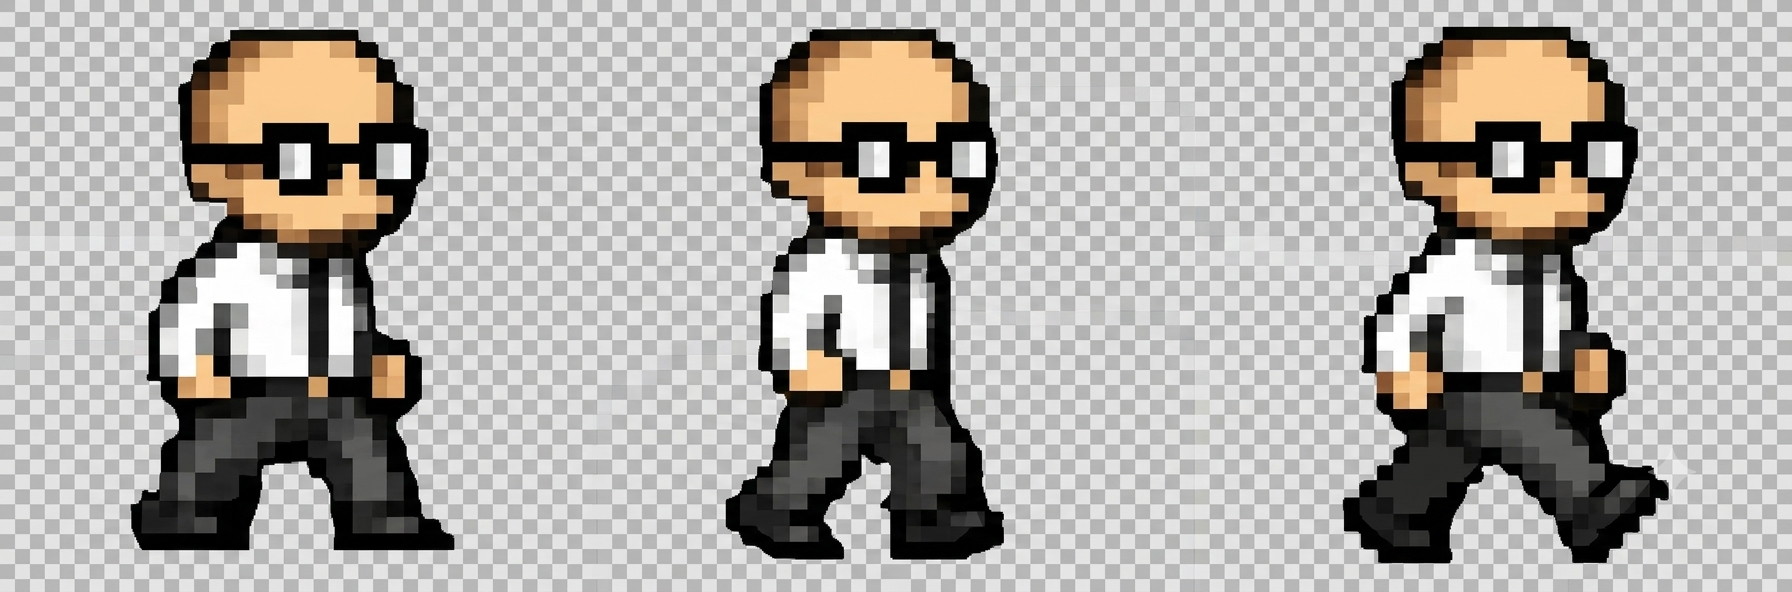
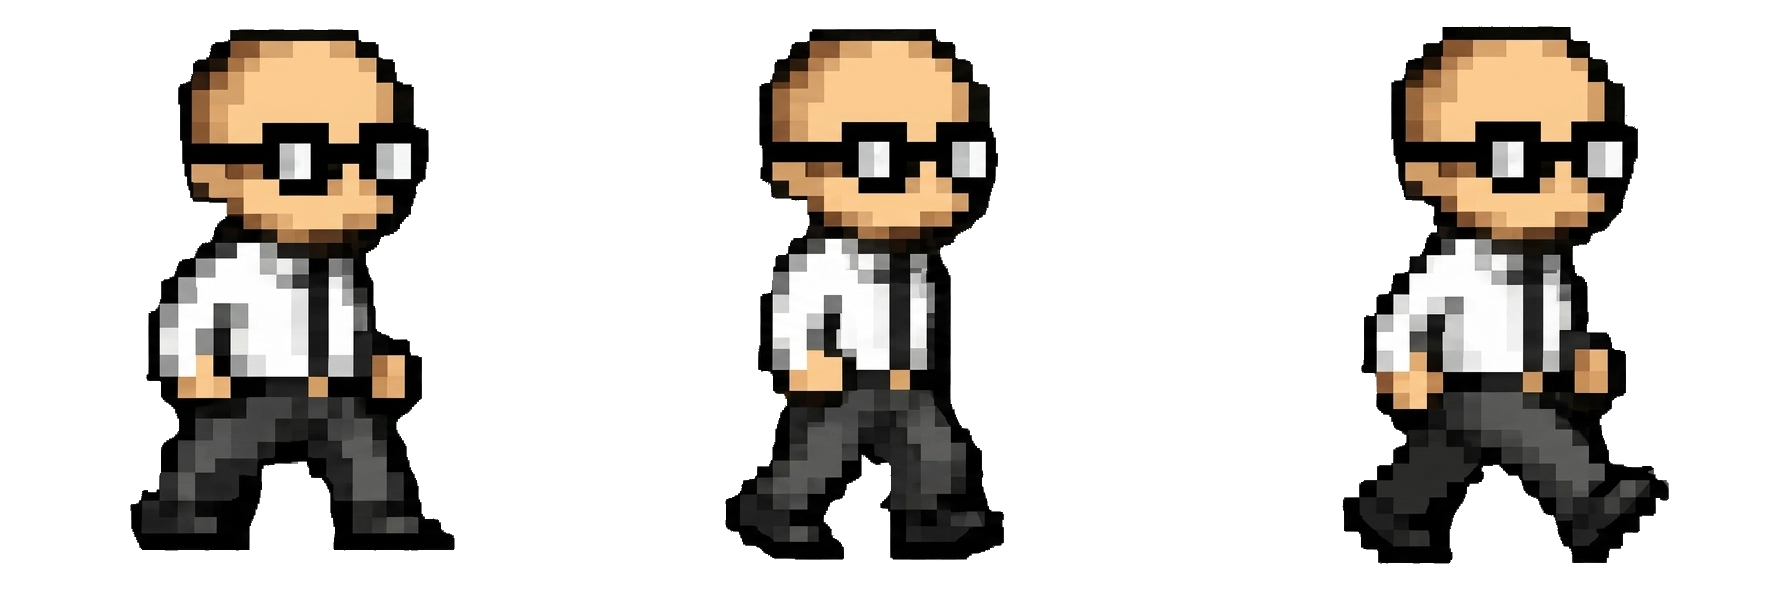
キャラクター表示修正

diff --git a/project/src/scenes/GameScene.js b/project/src/scenes/GameScene.js
@@ -41,9 +41,9 @@ export default class GameScene extends Phaser.Scene {
 
     imageLoader() {
         // 全ステージで使う画像をロード
-        this.load.spritesheet("player", "asset/takigawa/takigawaWalk00.jpg", {
-            frameWidth: 36,
-            frameHeight: 45
+        this.load.spritesheet("player", "asset/takigawa/takigawaWalk10.png", {
+            frameWidth: 597,
+            frameHeight: 592
         });
 
         this.load.image("noda", "asset/noda/noda.png");

diff --git a/project/src/objects/Player.js b/project/src/objects/Player.js
@@ -27,7 +27,7 @@ export default class Player extends Phaser.Physics.Arcade.Sprite {
         this.isLate = false;
         this.isInvincible = false;
         this.canMove = true;
-        this.setScale(0.5);
+        this.setScale(0.12);
 
         // 摩擦（必要なら有効化）
         // this.setDragX(600);
